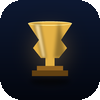
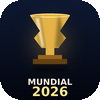
v1.2.4: agrega leyenda MUNDIAL 2026 al ícono
- "MUNDIAL" en blanco arriba (sans bold, tracking normal) y "2026" en
  oro claro abajo más grande. Compone como cartel de evento deportivo.
- Trofeo subido para hacer lugar a las dos líneas de texto sin tapar
  la silueta del objeto. Bowl ahora arranca en y=0.155 (antes 0.235).
- Cada texto con sombra negra desplazada para legibilidad sobre el
  glow cálido del fondo.
- Cache busting v=1.2.4 + CACHE_VERSION='album-2026-v1.2.4'.

Changed region(s): [[0.27, 0.12, 0.72, 0.99]]

diff --git a/index.html b/index.html
@@ -12,10 +12,10 @@
 <meta name="format-detection" content="telephone=no">
 <meta name="referrer" content="no-referrer">
 <meta name="description" content="Llevá el control de tu álbum del Mundial 2026: marcá las que tenés, anotá las repetidas y coordiná intercambios con tu familia y tus amigos por WhatsApp. Todo se guarda en tu dispositivo, sin registro y sin servidor.">
-<link rel="icon" type="image/png" sizes="100x100" href="./icons/icon-100.png?v=1.2.3">
-<link rel="icon" type="image/png" sizes="192x192" href="./icons/icon-192.png?v=1.2.3">
-<link rel="apple-touch-icon" sizes="180x180" href="./icons/icon-180.png?v=1.2.3">
-<link rel="manifest" href="./manifest.webmanifest?v=1.2.3">
+<link rel="icon" type="image/png" sizes="100x100" href="./icons/icon-100.png?v=1.2.4">
+<link rel="icon" type="image/png" sizes="192x192" href="./icons/icon-192.png?v=1.2.4">
+<link rel="apple-touch-icon" sizes="180x180" href="./icons/icon-180.png?v=1.2.4">
+<link rel="manifest" href="./manifest.webmanifest?v=1.2.4">
 <title>Mi Álbum Mundial 2026</title>
 <style>
 *,:after,:before{--tw-border-spacing-x:0;--tw-border-spacing-y:0;--tw-translate-x:0;--tw-translate-y:0;--tw-rotate:0;--tw-skew-x:0;--tw-skew-y:0;--tw-scale-x:1;--tw-scale-y:1;--tw-pan-x: ;--tw-pan-y: ;--tw-pinch-zoom: ;--tw-scroll-snap-strictness:proximity;--tw-gradient-from-position: ;--tw-gradient-via-position: ;--tw-gradient-to-position: ;--tw-ordinal: ;--tw-slashed-zero: ;--tw-numeric-figure: ;--tw-numeric-spacing: ;--tw-numeric-fraction: ;--tw-ring-inset: ;--tw-ring-offset-width:0px;--tw-ring-offset-color:#fff;--tw-ring-color:rgba(59,130,246,.5);--tw-ring-offset-shadow:0 0 #0000;--tw-ring-shadow:0 0 #0000;--tw-shadow:0 0 #0000;--tw-shadow-colored:0 0 #0000;--tw-blur: ;--tw-brightness: ;--tw-contrast: ;--tw-grayscale: ;--tw-hue-rotate: ;--tw-invert: ;--tw-saturate: ;--tw-sepia: ;--tw-drop-shadow: ;--tw-backdrop-blur: ;--tw-backdrop-brightness: ;--tw-backdrop-contrast: ;--tw-backdrop-grayscale: ;--tw-backdrop-hue-rotate: ;--tw-backdrop-invert: ;--tw-backdrop-opacity: ;--tw-backdrop-saturate: ;--tw-backdrop-sepia: ;--tw-contain-size: ;--tw-contain-layout: ;--tw-contain-paint: ;--tw-contain-style: }::backdrop{--tw-border-spacing-x:0;--tw-border-spacing-y:0;--tw-translate-x:0;--tw-translate-y:0;--tw-rotate:0;--tw-skew-x:0;--tw-skew-y:0;--tw-scale-x:1;--tw-scale-y:1;--tw-pan-x: ;--tw-pan-y: ;--tw-pinch-zoom: ;--tw-scroll-snap-strictness:proximity;--tw-gradient-from-position: ;--tw-gradient-via-position: ;--tw-gradient-to-position: ;--tw-ordinal: ;--tw-slashed-zero: ;--tw-numeric-figure: ;--tw-numeric-spacing: ;--tw-numeric-fraction: ;--tw-ring-inset: ;--tw-ring-offset-width:0px;--tw-ring-offset-color:#fff;--tw-ring-color:rgba(59,130,246,.5);--tw-ring-offset-shadow:0 0 #0000;--tw-ring-shadow:0 0 #0000;--tw-shadow:0 0 #0000;--tw-shadow-colored:0 0 #0000;--tw-blur: ;--tw-brightness: ;--tw-contrast: ;--tw-grayscale: ;--tw-hue-rotate: ;--tw-invert: ;--tw-saturate: ;--tw-sepia: ;--tw-drop-shadow: ;--tw-backdrop-blur: ;--tw-backdrop-brightness: ;--tw-backdrop-contrast: ;--tw-backdrop-grayscale: ;--tw-backdrop-hue-rotate: ;--tw-backdrop-invert: ;--tw-backdrop-opacity: ;--tw-backdrop-saturate: ;--tw-backdrop-sepia: ;--tw-contain-size: ;--tw-contain-layout: ;--tw-contain-paint: ;--tw-contain-style: }/*! tailwindcss v3.4.16 | MIT License | https://tailwindcss.com*/*,:after,:before{box-sizing:border-box;border:0 solid #e5e7eb}:after,:before{--tw-content:""}:host,html{line-height:1.5;-webkit-text-size-adjust:100%;-moz-tab-size:4;-o-tab-size:4;tab-size:4;font-family:ui-sans-serif,system-ui,sans-serif,Apple Color Emoji,Segoe UI Emoji,Segoe UI Symbol,Noto Color Emoji;font-feature-settings:normal;font-variation-settings:normal;-webkit-tap-highlight-color:transparent}body{margin:0;line-height:inherit}hr{height:0;color:inherit;border-top-width:1px}abbr:where([title]){-webkit-text-decoration:underline dotted;text-decoration:underline dotted}h1,h2,h3,h4,h5,h6{font-size:inherit;font-weight:inherit}a{color:inherit;text-decoration:inherit}b,strong{font-weight:bolder}code,kbd,pre,samp{font-family:ui-monospace,SFMono-Regular,Menlo,Monaco,Consolas,Liberation Mono,Courier New,monospace;font-feature-settings:normal;font-variation-settings:normal;font-size:1em}small{font-size:80%}sub,sup{font-size:75%;line-height:0;position:relative;vertical-align:baseline}sub{bottom:-.25em}sup{top:-.5em}table{text-indent:0;border-color:inherit;border-collapse:collapse}button,input,optgroup,select,textarea{font-family:inherit;font-feature-settings:inherit;font-variation-settings:inherit;font-size:100%;font-weight:inherit;line-height:inherit;letter-spacing:inherit;color:inherit;margin:0;padding:0}button,select{text-transform:none}button,input:where([type=button]),input:where([type=reset]),input:where([type=submit]){-webkit-appearance:button;background-color:transparent;background-image:none}:-moz-focusring{outline:auto}:-moz-ui-invalid{box-shadow:none}progress{vertical-align:baseline}::-webkit-inner-spin-button,::-webkit-outer-spin-button{height:auto}[type=search]{-webkit-appearance:textfield;outline-offset:-2px}::-webkit-search-decoration{-webkit-appearance:none}::-webkit-file-upload-button{-webkit-appearance:button;font:inherit}summary{display:list-item}blockquote,dd,dl,figure,h1,h2,h3,h4,h5,h6,hr,p,pre{margin:0}fieldset{margin:0}fieldset,legend{padding:0}menu,ol,ul{list-style:none;margin:0;padding:0}dialog{padding:0}textarea{resize:vertical}input::-moz-placeholder,textarea::-moz-placeholder{opacity:1;color:#9ca3af}input::placeholder,textarea::placeholder{opacity:1;color:#9ca3af}[role=button],button{cursor:pointer}:disabled{cursor:default}audio,canvas,embed,iframe,img,object,svg,video{display:block;vertical-align:middle}img,video{max-width:100%;height:auto}[hidden]:where(:not([hidden=until-found])){display:none}.visible{visibility:visible}.fixed{position:fixed}.absolute{position:absolute}.relative{position:relative}.sticky{position:sticky}.inset-x-0{left:0;right:0}.-bottom-1{bottom:-.25rem}.top-0{top:0}.z-20{z-index:20}.-mx-1{margin-left:-.25rem;margin-right:-.25rem}.mx-auto{margin-left:auto;margin-right:auto}.mb-1{margin-bottom:.25rem}.mb-2{margin-bottom:.5rem}.mb-3{margin-bottom:.75rem}.mb-4{margin-bottom:1rem}.mb-5{margin-bottom:1.25rem}.mb-6{margin-bottom:1.5rem}.mb-8{margin-bottom:2rem}.ml-1{margin-left:.25rem}.mr-2{margin-right:.5rem}.mt-0{margin-top:0}.mt-0\.5{margin-top:.125rem}.mt-1{margin-top:.25rem}.mt-1\.5{margin-top:.375rem}.mt-10{margin-top:2.5rem}.mt-12{margin-top:3rem}.mt-2{margin-top:.5rem}.mt-3{margin-top:.75rem}.mt-4{margin-top:1rem}.block{display:block}.inline-block{display:inline-block}.flex{display:flex}.table{display:table}.grid{display:grid}.hidden{display:none}.aspect-square{aspect-ratio:1/1}.h-1{height:.25rem}.h-1\.5{height:.375rem}.h-2{height:.5rem}.h-4{height:1rem}.h-5{height:1.25rem}.h-7{height:1.75rem}.h-9{height:2.25rem}.h-full{height:100%}.max-h-20{max-height:5rem}.max-h-48{max-height:12rem}.w-2{width:.5rem}.w-28{width:7rem}.w-4{width:1rem}.w-5{width:1.25rem}.w-7{width:1.75rem}.w-9{width:2.25rem}.w-full{width:100%}.min-w-0{min-width:0}.max-w-3xl{max-width:48rem}.flex-1{flex:1 1 0%}.shrink-0{flex-shrink:0}.transform{transform:translate(var(--tw-translate-x),var(--tw-translate-y)) rotate(var(--tw-rotate)) skewX(var(--tw-skew-x)) skewY(var(--tw-skew-y)) scaleX(var(--tw-scale-x)) scaleY(var(--tw-scale-y))}.cursor-pointer{cursor:pointer}.resize-none{resize:none}.resize{resize:both}.grid-cols-1{grid-template-columns:repeat(1,minmax(0,1fr))}.grid-cols-2{grid-template-columns:repeat(2,minmax(0,1fr))}.grid-cols-4{grid-template-columns:repeat(4,minmax(0,1fr))}.grid-cols-5{grid-template-columns:repeat(5,minmax(0,1fr))}.flex-col{flex-direction:column}.items-start{align-items:flex-start}.items-center{align-items:center}.items-baseline{align-items:baseline}.justify-center{justify-content:center}.justify-between{justify-content:space-between}.gap-1{gap:.25rem}.gap-1\.5{gap:.375rem}.gap-2{gap:.5rem}.gap-3{gap:.75rem}.gap-x-1{-moz-column-gap:.25rem;column-gap:.25rem}.gap-x-1\.5{-moz-column-gap:.375rem;column-gap:.375rem}.gap-y-3{row-gap:.75rem}.space-y-1>:not([hidden])~:not([hidden]){--tw-space-y-reverse:0;margin-top:calc(.25rem*(1 - var(--tw-space-y-reverse)));margin-bottom:calc(.25rem*var(--tw-space-y-reverse))}.space-y-1\.5>:not([hidden])~:not([hidden]){--tw-space-y-reverse:0;margin-top:calc(.375rem*(1 - var(--tw-space-y-reverse)));margin-bottom:calc(.375rem*var(--tw-space-y-reverse))}.space-y-2>:not([hidden])~:not([hidden]){--tw-space-y-reverse:0;margin-top:calc(.5rem*(1 - var(--tw-space-y-reverse)));margin-bottom:calc(.5rem*var(--tw-space-y-reverse))}.space-y-3>:not([hidden])~:not([hidden]){--tw-space-y-reverse:0;margin-top:calc(.75rem*(1 - var(--tw-space-y-reverse)));margin-bottom:calc(.75rem*var(--tw-space-y-reverse))}.divide-x>:not([hidden])~:not([hidden]){--tw-divide-x-reverse:0;border-right-width:calc(1px*var(--tw-divide-x-reverse));border-left-width:calc(1px*(1 - var(--tw-divide-x-reverse)))}.divide-gray-100>:not([hidden])~:not([hidden]){--tw-divide-opacity:1;border-color:rgb(243 244 246/var(--tw-divide-opacity,1))}.overflow-hidden{overflow:hidden}.overflow-y-auto{overflow-y:auto}.truncate{overflow:hidden;text-overflow:ellipsis;white-space:nowrap}.break-all{word-break:break-all}.rounded-2xl{border-radius:1rem}.rounded-full{border-radius:9999px}.rounded-lg{border-radius:.5rem}.rounded-md{border-radius:.375rem}.rounded-xl{border-radius:.75rem}.border{border-width:1px}.border-2{border-width:2px}.border-b{border-bottom-width:1px}.border-b-2{border-bottom-width:2px}.border-t{border-top-width:1px}.border-amber-200{--tw-border-opacity:1;border-color:rgb(253 230 138/var(--tw-border-opacity,1))}.border-amber-300{--tw-border-opacity:1;border-color:rgb(252 211 77/var(--tw-border-opacity,1))}.border-amber-400{--tw-border-opacity:1;border-color:rgb(251 191 36/var(--tw-border-opacity,1))}.border-blue-200{--tw-border-opacity:1;border-color:rgb(191 219 254/var(--tw-border-opacity,1))}.border-blue-300{--tw-border-opacity:1;border-color:rgb(147 197 253/var(--tw-border-opacity,1))}.border-emerald-200{--tw-border-opacity:1;border-color:rgb(167 243 208/var(--tw-border-opacity,1))}.border-emerald-300{--tw-border-opacity:1;border-color:rgb(110 231 183/var(--tw-border-opacity,1))}.border-gray-100{--tw-border-opacity:1;border-color:rgb(243 244 246/var(--tw-border-opacity,1))}.border-gray-200{--tw-border-opacity:1;border-color:rgb(229 231 235/var(--tw-border-opacity,1))}.border-gray-300{--tw-border-opacity:1;border-color:rgb(209 213 219/var(--tw-border-opacity,1))}.border-indigo-200{--tw-border-opacity:1;border-color:rgb(199 210 254/var(--tw-border-opacity,1))}.border-pink-200{--tw-border-opacity:1;border-color:rgb(251 207 232/var(--tw-border-opacity,1))}.border-pink-300{--tw-border-opacity:1;border-color:rgb(249 168 212/var(--tw-border-opacity,1))}.border-purple-300{--tw-border-opacity:1;border-color:rgb(216 180 254/var(--tw-border-opacity,1))}.border-red-400{--tw-border-opacity:1;border-color:rgb(248 113 113/var(--tw-border-opacity,1))}.bg-amber-100{--tw-bg-opacity:1;background-color:rgb(254 243 199/var(--tw-bg-opacity,1))}.bg-amber-50{--tw-bg-opacity:1;background-color:rgb(255 251 235/var(--tw-bg-opacity,1))}.bg-amber-500{--tw-bg-opacity:1;background-color:rgb(245 158 11/var(--tw-bg-opacity,1))}.bg-amber-600{--tw-bg-opacity:1;background-color:rgb(217 119 6/var(--tw-bg-opacity,1))}.bg-blue-50{--tw-bg-opacity:1;background-color:rgb(239 246 255/var(--tw-bg-opacity,1))}.bg-blue-500{--tw-bg-opacity:1;background-color:rgb(59 130 246/var(--tw-bg-opacity,1))}.bg-blue-600{--tw-bg-opacity:1;background-color:rgb(37 99 235/var(--tw-bg-opacity,1))}.bg-emerald-100{--tw-bg-opacity:1;background-color:rgb(209 250 229/var(--tw-bg-opacity,1))}.bg-emerald-50{--tw-bg-opacity:1;background-color:rgb(236 253 245/var(--tw-bg-opacity,1))}.bg-emerald-600{--tw-bg-opacity:1;background-color:rgb(5 150 105/var(--tw-bg-opacity,1))}.bg-gray-100{--tw-bg-opacity:1;background-color:rgb(243 244 246/var(--tw-bg-opacity,1))}.bg-gray-50{--tw-bg-opacity:1;background-color:rgb(249 250 251/var(--tw-bg-opacity,1))}.bg-gray-900{--tw-bg-opacity:1;background-color:rgb(17 24 39/var(--tw-bg-opacity,1))}.bg-green-600{--tw-bg-opacity:1;background-color:rgb(22 163 74/var(--tw-bg-opacity,1))}.bg-indigo-50{--tw-bg-opacity:1;background-color:rgb(238 242 255/var(--tw-bg-opacity,1))}.bg-indigo-600{--tw-bg-opacity:1;background-color:rgb(79 70 229/var(--tw-bg-opacity,1))}.bg-pink-500{--tw-bg-opacity:1;background-color:rgb(236 72 153/var(--tw-bg-opacity,1))}.bg-purple-50{--tw-bg-opacity:1;background-color:rgb(250 245 255/var(--tw-bg-opacity,1))}.bg-purple-600{--tw-bg-opacity:1;background-color:rgb(147 51 234/var(--tw-bg-opacity,1))}.bg-red-100{--tw-bg-opacity:1;background-color:rgb(254 226 226/var(--tw-bg-opacity,1))}.bg-red-50{--tw-bg-opacity:1;background-color:rgb(254 242 242/var(--tw-bg-opacity,1))}.bg-red-600{--tw-bg-opacity:1;background-color:rgb(220 38 38/var(--tw-bg-opacity,1))}.bg-transparent{background-color:transparent}.bg-white{--tw-bg-opacity:1;background-color:rgb(255 255 255/var(--tw-bg-opacity,1))}.bg-white\/95{background-color:hsla(0,0%,100%,.95)}.bg-gradient-to-br{background-image:linear-gradient(to bottom right,var(--tw-gradient-stops))}.from-pink-50{--tw-gradient-from:#fdf2f8 var(--tw-gradient-from-position);--tw-gradient-to:rgba(253,242,248,0) var(--tw-gradient-to-position);--tw-gradient-stops:var(--tw-gradient-from),var(--tw-gradient-to)}.to-rose-50{--tw-gradient-to:#fff1f2 var(--tw-gradient-to-position)}.p-1{padding:.25rem}.p-3{padding:.75rem}.p-4{padding:1rem}.p-5{padding:1.25rem}.p-6{padding:1.5rem}.px-1{padding-left:.25rem;padding-right:.25rem}.px-2{padding-left:.5rem;padding-right:.5rem}.px-2\.5{padding-left:.625rem;padding-right:.625rem}.px-3{padding-left:.75rem;padding-right:.75rem}.px-4{padding-left:1rem;padding-right:1rem}.py-1{padding-top:.25rem;padding-bottom:.25rem}.py-1\.5{padding-top:.375rem;padding-bottom:.375rem}.py-2{padding-top:.5rem;padding-bottom:.5rem}.py-2\.5{padding-top:.625rem;padding-bottom:.625rem}.py-3{padding-top:.75rem;padding-bottom:.75rem}.py-4{padding-top:1rem;padding-bottom:1rem}.py-6{padding-top:1.5rem;padding-bottom:1.5rem}.pb-12{padding-bottom:3rem}.pb-2{padding-bottom:.5rem}.pb-3{padding-bottom:.75rem}.pb-32{padding-bottom:8rem}.pb-5{padding-bottom:1.25rem}.pb-6{padding-bottom:1.5rem}.pb-8{padding-bottom:2rem}.pt-3{padding-top:.75rem}.pt-4{padding-top:1rem}.text-center{text-align:center}.text-right{text-align:right}.align-text-bottom{vertical-align:text-bottom}.font-mono{font-family:ui-monospace,SFMono-Regular,Menlo,Monaco,Consolas,Liberation Mono,Courier New,monospace}.text-2xl{font-size:1.5rem;line-height:2rem}.text-3xl{font-size:1.875rem;line-height:2.25rem}.text-\[10px\]{font-size:10px}.text-\[11px\]{font-size:11px}.text-\[8px\]{font-size:8px}.text-\[9px\]{font-size:9px}.text-base{font-size:1rem;line-height:1.5rem}.text-lg{font-size:1.125rem;line-height:1.75rem}.text-sm{font-size:.875rem;line-height:1.25rem}.text-xl{font-size:1.25rem;line-height:1.75rem}.text-xs{font-size:.75rem;line-height:1rem}.font-bold{font-weight:700}.font-medium{font-weight:500}.font-semibold{font-weight:600}.uppercase{text-transform:uppercase}.italic{font-style:italic}.tabular-nums{--tw-numeric-spacing:tabular-nums;font-variant-numeric:var(--tw-ordinal) var(--tw-slashed-zero) var(--tw-numeric-figure) var(--tw-numeric-spacing) var(--tw-numeric-fraction)}.leading-none{line-height:1}.leading-relaxed{line-height:1.625}.leading-snug{line-height:1.375}.leading-tight{line-height:1.25}.tracking-\[0\.15em\]{letter-spacing:.15em}.tracking-\[0\.1em\]{letter-spacing:.1em}.tracking-tight{letter-spacing:-.025em}.tracking-wider{letter-spacing:.05em}.text-amber-600{--tw-text-opacity:1;color:rgb(217 119 6/var(--tw-text-opacity,1))}.text-amber-700{--tw-text-opacity:1;color:rgb(180 83 9/var(--tw-text-opacity,1))}.text-amber-900{--tw-text-opacity:1;color:rgb(120 53 15/var(--tw-text-opacity,1))}.text-blue-600{--tw-text-opacity:1;color:rgb(37 99 235/var(--tw-text-opacity,1))}.text-blue-700{--tw-text-opacity:1;color:rgb(29 78 216/var(--tw-text-opacity,1))}.text-emerald-600{--tw-text-opacity:1;color:rgb(5 150 105/var(--tw-text-opacity,1))}.text-emerald-700{--tw-text-opacity:1;color:rgb(4 120 87/var(--tw-text-opacity,1))}.text-emerald-800{--tw-text-opacity:1;color:rgb(6 95 70/var(--tw-text-opacity,1))}.text-emerald-900{--tw-text-opacity:1;color:rgb(6 78 59/var(--tw-text-opacity,1))}.text-gray-300{--tw-text-opacity:1;color:rgb(209 213 219/var(--tw-text-opacity,1))}.text-gray-400{--tw-text-opacity:1;color:rgb(156 163 175/var(--tw-text-opacity,1))}.text-gray-500{--tw-text-opacity:1;color:rgb(107 114 128/var(--tw-text-opacity,1))}.text-gray-600{--tw-text-opacity:1;color:rgb(75 85 99/var(--tw-text-opacity,1))}.text-gray-700{--tw-text-opacity:1;color:rgb(55 65 81/var(--tw-text-opacity,1))}.text-gray-900{--tw-text-opacity:1;color:rgb(17 24 39/var(--tw-text-opacity,1))}.text-green-600{--tw-text-opacity:1;color:rgb(22 163 74/var(--tw-text-opacity,1))}.text-green-700{--tw-text-opacity:1;color:rgb(21 128 61/var(--tw-text-opacity,1))}.text-indigo-600{--tw-text-opacity:1;color:rgb(79 70 229/var(--tw-text-opacity,1))}.text-indigo-700{--tw-text-opacity:1;color:rgb(67 56 202/var(--tw-text-opacity,1))}.text-pink-700{--tw-text-opacity:1;color:rgb(190 24 93/var(--tw-text-opacity,1))}.text-purple-600{--tw-text-opacity:1;color:rgb(147 51 234/var(--tw-text-opacity,1))}.text-purple-700{--tw-text-opacity:1;color:rgb(126 34 206/var(--tw-text-opacity,1))}.text-red-500{--tw-text-opacity:1;color:rgb(239 68 68/var(--tw-text-opacity,1))}.text-red-600{--tw-text-opacity:1;color:rgb(220 38 38/var(--tw-text-opacity,1))}.text-red-900{--tw-text-opacity:1;color:rgb(127 29 29/var(--tw-text-opacity,1))}.text-white{--tw-text-opacity:1;color:rgb(255 255 255/var(--tw-text-opacity,1))}.text-white\/80{color:hsla(0,0%,100%,.8)}.text-white\/90{color:hsla(0,0%,100%,.9)}.underline{text-decoration-line:underline}.opacity-60{opacity:.6}.opacity-70{opacity:.7}.opacity-90{opacity:.9}.shadow-sm{--tw-shadow:0 1px 2px 0 rgba(0,0,0,.05);--tw-shadow-colored:0 1px 2px 0 var(--tw-shadow-color);box-shadow:var(--tw-ring-offset-shadow,0 0 #0000),var(--tw-ring-shadow,0 0 #0000),var(--tw-shadow)}.outline{outline-style:solid}.blur{--tw-blur:blur(8px)}.blur,.filter{filter:var(--tw-blur) var(--tw-brightness) var(--tw-contrast) var(--tw-grayscale) var(--tw-hue-rotate) var(--tw-invert) var(--tw-saturate) var(--tw-sepia) var(--tw-drop-shadow)}.backdrop-blur-md{--tw-backdrop-blur:blur(12px);-webkit-backdrop-filter:var(--tw-backdrop-blur) var(--tw-backdrop-brightness) var(--tw-backdrop-contrast) var(--tw-backdrop-grayscale) var(--tw-backdrop-hue-rotate) var(--tw-backdrop-invert) var(--tw-backdrop-opacity) var(--tw-backdrop-saturate) var(--tw-backdrop-sepia);backdrop-filter:var(--tw-backdrop-blur) var(--tw-backdrop-brightness) var(--tw-backdrop-contrast) var(--tw-backdrop-grayscale) var(--tw-backdrop-hue-rotate) var(--tw-backdrop-invert) var(--tw-backdrop-opacity) var(--tw-backdrop-saturate) var(--tw-backdrop-sepia)}.transition-all{transition-property:all;transition-timing-function:cubic-bezier(.4,0,.2,1);transition-duration:.15s}.transition-colors{transition-property:color,background-color,border-color,text-decoration-color,fill,stroke;transition-timing-function:cubic-bezier(.4,0,.2,1);transition-duration:.15s}.duration-300{transition-duration:.3s}.focus\:border-amber-500:focus{--tw-border-opacity:1;border-color:rgb(245 158 11/var(--tw-border-opacity,1))}.focus\:border-blue-500:focus{--tw-border-opacity:1;border-color:rgb(59 130 246/var(--tw-border-opacity,1))}.focus\:border-emerald-500:focus{--tw-border-opacity:1;border-color:rgb(16 185 129/var(--tw-border-opacity,1))}.focus\:outline-none:focus{outline:2px solid transparent;outline-offset:2px}.active\:bg-amber-600:active{--tw-bg-opacity:1;background-color:rgb(217 119 6/var(--tw-bg-opacity,1))}.active\:bg-amber-700:active{--tw-bg-opacity:1;background-color:rgb(180 83 9/var(--tw-bg-opacity,1))}.active\:bg-blue-50:active{--tw-bg-opacity:1;background-color:rgb(239 246 255/var(--tw-bg-opacity,1))}.active\:bg-blue-600:active{--tw-bg-opacity:1;background-color:rgb(37 99 235/var(--tw-bg-opacity,1))}.active\:bg-emerald-100:active{--tw-bg-opacity:1;background-color:rgb(209 250 229/var(--tw-bg-opacity,1))}.active\:bg-emerald-700:active{--tw-bg-opacity:1;background-color:rgb(4 120 87/var(--tw-bg-opacity,1))}.active\:bg-gray-100:active{--tw-bg-opacity:1;background-color:rgb(243 244 246/var(--tw-bg-opacity,1))}.active\:bg-gray-200:active{--tw-bg-opacity:1;background-color:rgb(229 231 235/var(--tw-bg-opacity,1))}.active\:bg-green-700:active{--tw-bg-opacity:1;background-color:rgb(21 128 61/var(--tw-bg-opacity,1))}.active\:bg-indigo-100:active{--tw-bg-opacity:1;background-color:rgb(224 231 255/var(--tw-bg-opacity,1))}.active\:bg-indigo-700:active{--tw-bg-opacity:1;background-color:rgb(67 56 202/var(--tw-bg-opacity,1))}.active\:bg-pink-50:active{--tw-bg-opacity:1;background-color:rgb(253 242 248/var(--tw-bg-opacity,1))}.active\:bg-pink-600:active{--tw-bg-opacity:1;background-color:rgb(219 39 119/var(--tw-bg-opacity,1))}.active\:bg-purple-100:active{--tw-bg-opacity:1;background-color:rgb(243 232 255/var(--tw-bg-opacity,1))}.active\:bg-purple-700:active{--tw-bg-opacity:1;background-color:rgb(126 34 206/var(--tw-bg-opacity,1))}.active\:text-blue-800:active{--tw-text-opacity:1;color:rgb(30 64 175/var(--tw-text-opacity,1))}.active\:text-emerald-900:active{--tw-text-opacity:1;color:rgb(6 78 59/var(--tw-text-opacity,1))}.active\:text-gray-600:active{--tw-text-opacity:1;color:rgb(75 85 99/var(--tw-text-opacity,1))}.active\:text-indigo-800:active{--tw-text-opacity:1;color:rgb(55 48 163/var(--tw-text-opacity,1))}.active\:text-red-500:active{--tw-text-opacity:1;color:rgb(239 68 68/var(--tw-text-opacity,1))}.active\:text-white:active{--tw-text-opacity:1;color:rgb(255 255 255/var(--tw-text-opacity,1))}@media (min-width:640px){.sm\:grid-cols-10{grid-template-columns:repeat(10,minmax(0,1fr))}.sm\:grid-cols-2{grid-template-columns:repeat(2,minmax(0,1fr))}.sm\:grid-cols-7{grid-template-columns:repeat(7,minmax(0,1fr))}.sm\:text-sm{font-size:.875rem;line-height:1.25rem}}
@@ -146,7 +146,7 @@ const ejecutarPromptInstalacion = async () => {
 // ====== CONTROL DE VERSIÓN Y ACTUALIZACIONES ======
 // La versión que se ve en el footer y se compara con la del SW para detectar
 // si hay una versión nueva descargada esperando aplicarse.
-const APP_VERSION = '1.2.3';
+const APP_VERSION = '1.2.4';
 const APP_BUILD = '2026-05-18';
 const STORAGE_KEY_UPDATE_DISMISS = 'album-mundial-2026-update-dismiss';
 
@@ -1988,7 +1988,7 @@ function render() {
     <footer class="max-w-3xl mx-auto px-4 pb-12 pt-4 border-t border-gray-100">
       <div class="flex items-center justify-between text-[11px] text-gray-400">
         <div class="flex items-center gap-2">
-          <img src="./icons/icon-100.png?v=1.2.3" alt="" width="20" height="20" class="rounded-md" onerror="this.style.display='none'">
+          <img src="./icons/icon-100.png?v=1.2.4" alt="" width="20" height="20" class="rounded-md" onerror="this.style.display='none'">
           <span class="font-semibold text-gray-500">Álbum Mundial 2026</span>
           <span class="tabular-nums">v${APP_VERSION}</span>
         </div>

diff --git a/sw.js b/sw.js
@@ -13,16 +13,16 @@
 // hacerlo nuestro listener 'updatefound' en el HTML va a disparar y mostrarle
 // al usuario el banner "Hay una versión nueva".
 
-const CACHE_VERSION = 'album-2026-v1.2.3';
+const CACHE_VERSION = 'album-2026-v1.2.4';
 const URLS_A_CACHEAR = [
   './',
   './index.html',
-  './manifest.webmanifest?v=1.2.3',
-  './icons/icon-100.png?v=1.2.3',
-  './icons/icon-180.png?v=1.2.3',
-  './icons/icon-192.png?v=1.2.3',
-  './icons/icon-512.png?v=1.2.3',
-  './icons/icon-512-maskable.png?v=1.2.3',
+  './manifest.webmanifest?v=1.2.4',
+  './icons/icon-100.png?v=1.2.4',
+  './icons/icon-180.png?v=1.2.4',
+  './icons/icon-192.png?v=1.2.4',
+  './icons/icon-512.png?v=1.2.4',
+  './icons/icon-512-maskable.png?v=1.2.4',
 ];
 
 self.addEventListener('install', (event) => {

diff --git a/CHANGELOG.md b/CHANGELOG.md
@@ -1,5 +1,13 @@
 # Changelog
 
+## v1.2.4 — 2026-05-18
+
+- Ícono con leyenda: "MUNDIAL" en blanco arriba + "2026" en oro grande
+  abajo, debajo del trofeo. Compone como un cartel de evento deportivo.
+- Trofeo movido hacia arriba para dejar espacio al texto sin perder
+  legibilidad de la silueta.
+- Cache busting bumpeado a `?v=1.2.4` + `CACHE_VERSION='album-2026-v1.2.4'`.
+
 ## v1.2.3 — 2026-05-18
 
 - Trofeo más chico y centrado en el ícono (ocupa ~55% del canvas en vez
